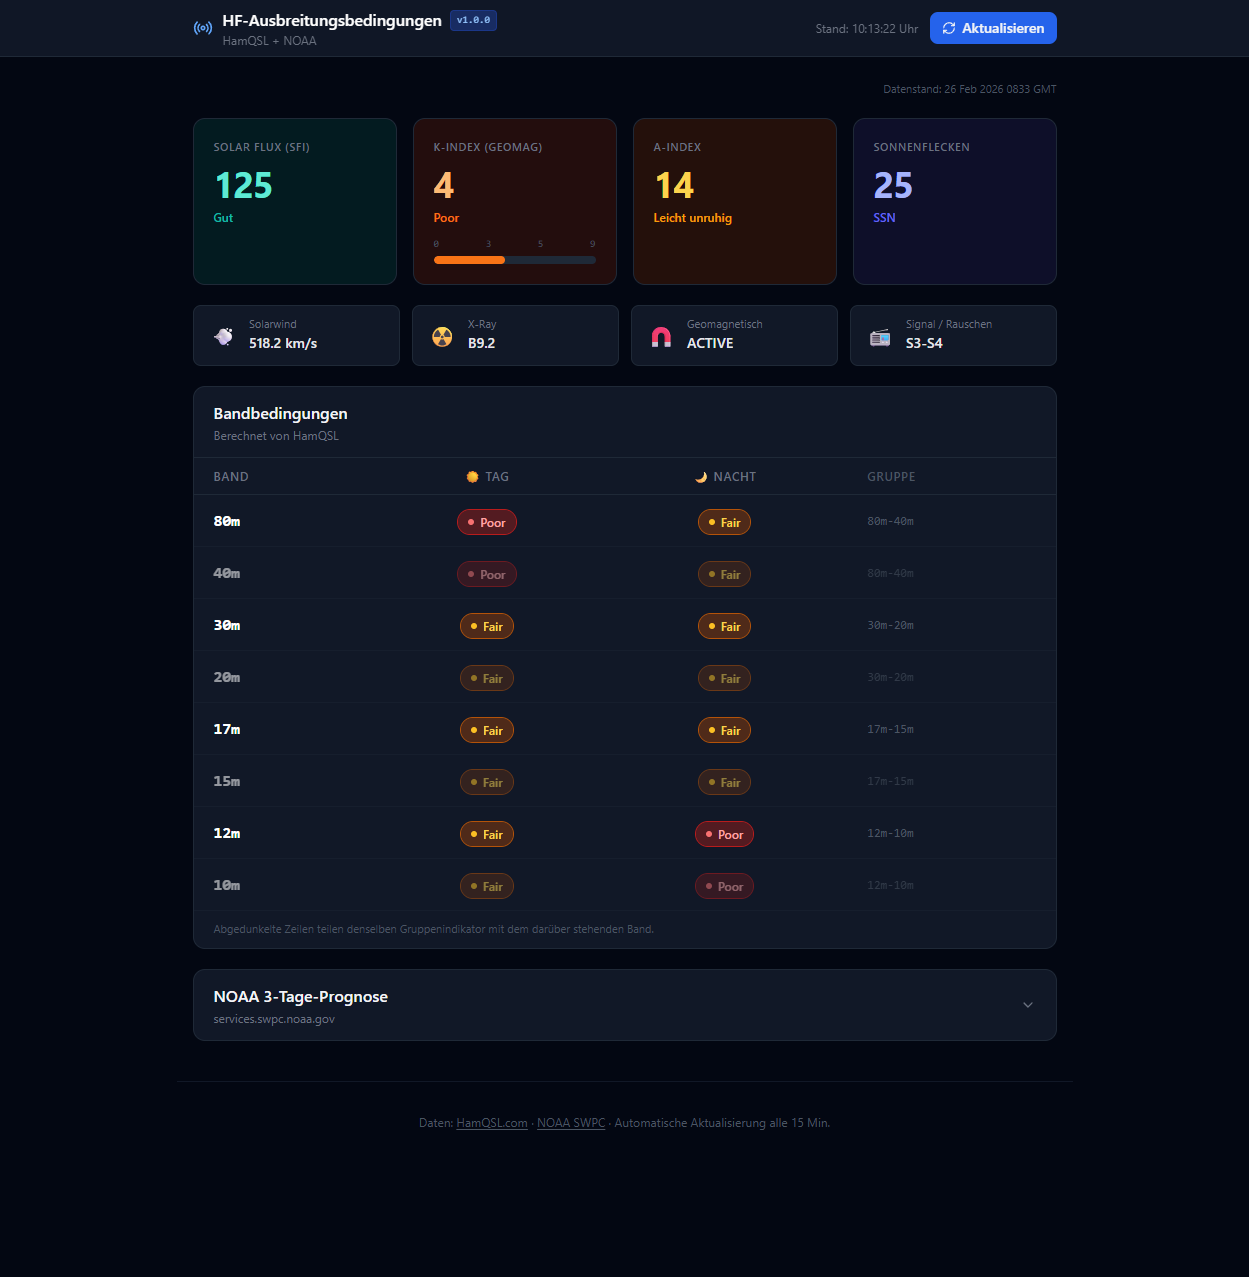
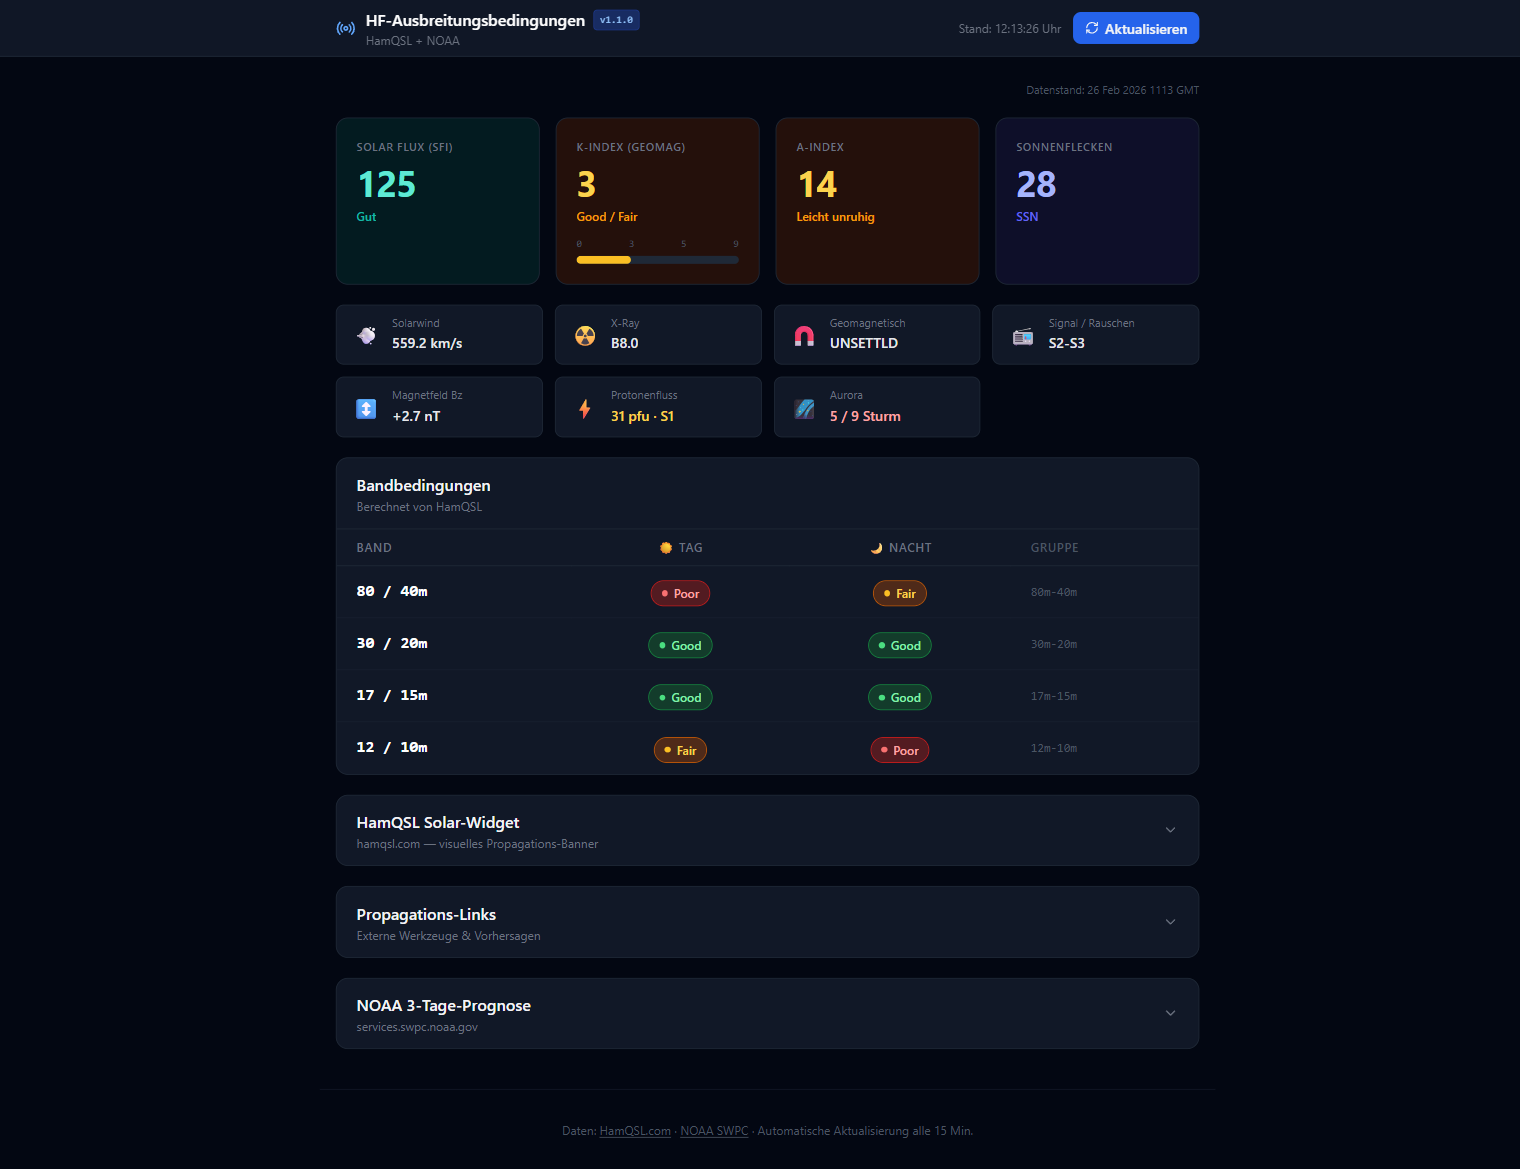
docs: update screenshot and README for v1.1.0
- Replace screenshot with current v1.1.0 view (all 7 InfoPills,
  4-row band table, collapsible panels visible)
- Add HamQSL Solar Widget and Propagation Links to Features section

diff --git a/README.md b/README.md
@@ -48,6 +48,13 @@ Colour-coded **Good / Fair / Poor** table for 80m through 10m, split into **Day*
 | 17 / 15m | … | … |
 | 12 / 10m | … | … |
 
+### HamQSL Solar Widget
+The official HamQSL solar-terrestrial banner image — collapsible in the UI.
+
+### Propagation Links
+A collapsible panel with direct links to six external propagation tools:
+[DR2W DX Propagation](https://propagation.dr2w.de/), [VOACAP HF Prediction](https://www.voacap.com/hf/), [Proppy](https://soundbytes.asia/proppy/area), [NOAA Space Weather Dashboard](https://www.spaceweather.gov/communities/space-weather-enthusiasts-dashboard), [QSL.net Propagation](https://dx.qsl.net/propagation/index.html), [DXView HF Perspective](https://hf.dxview.org/)
+
 ### NOAA 3-Day Space Weather Forecast
 Full text forecast from NOAA SWPC, collapsible in the UI.
 
